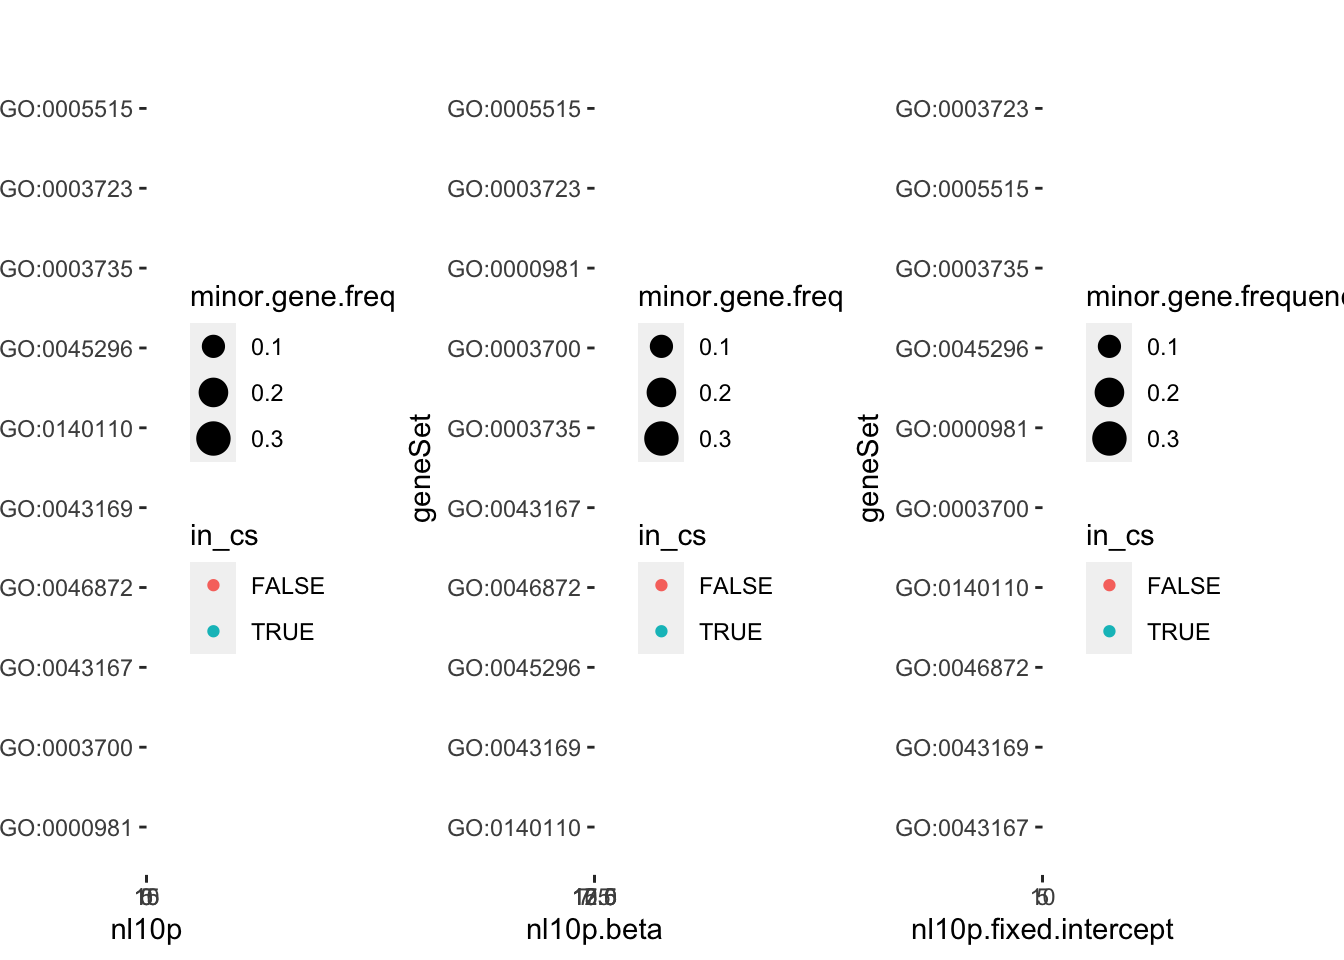
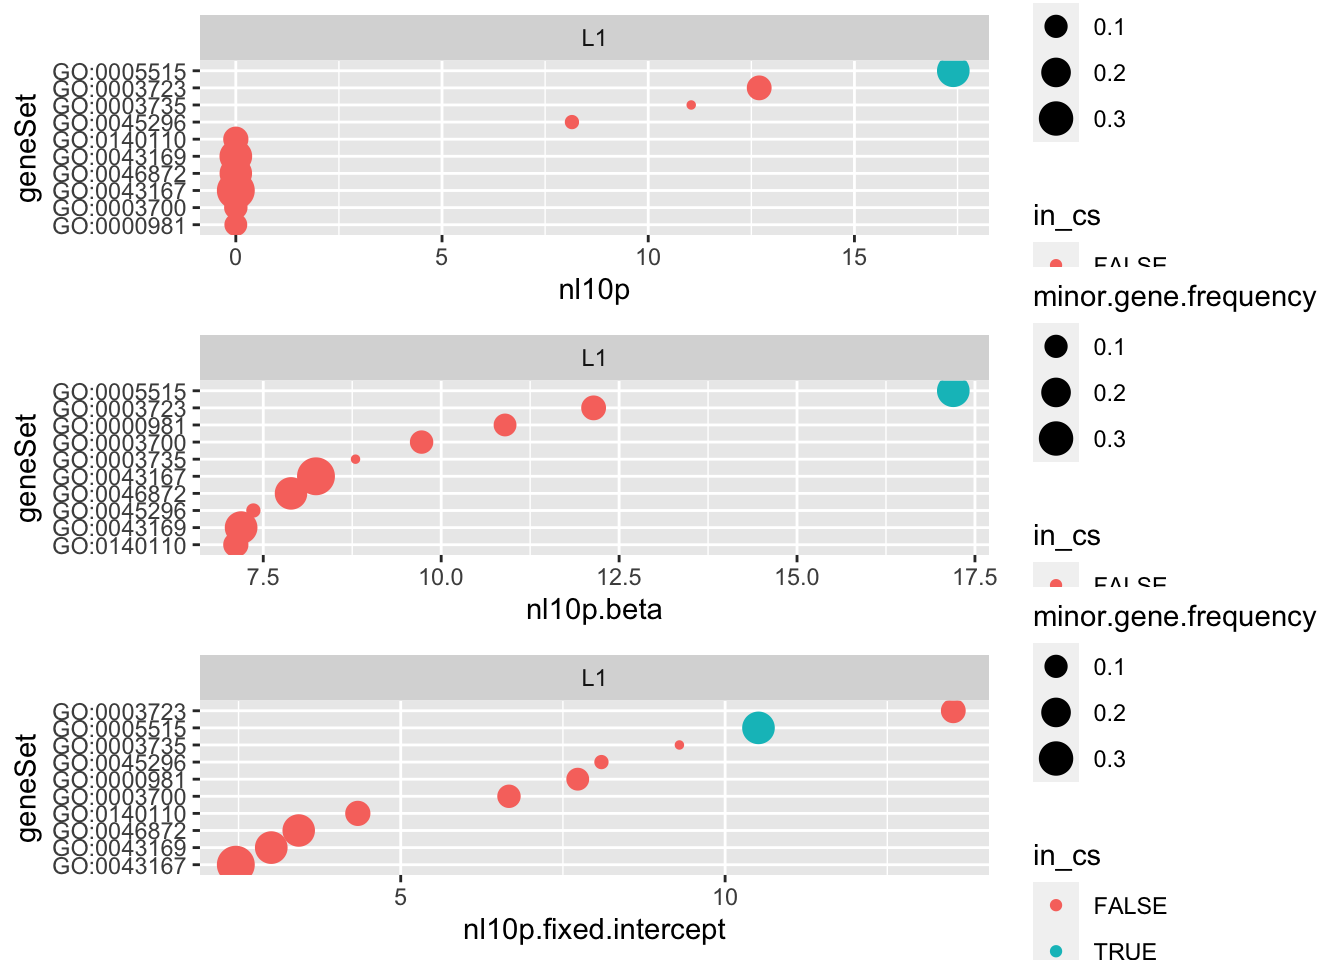
Build site.

diff --git a/docs/single_cell_pbmc_l1.html b/docs/single_cell_pbmc_l1.html
@@ -492,16 +492,16 @@ This reproducible <a href="https://rmarkdown.rstudio.com">R Markdown</a> analysi
 <div class="panel panel-default">
 <div class="panel-heading">
 <p class="panel-title">
-<a data-toggle="collapse" data-parent="#workflowr-checks" href="#strongRepositoryversionstrongahrefhttpsgithubcomkarltayeblogisticsusiegseatreeed39993efbe2d05c75a62c15d3fb0cf21fa0e7fctargetblanked39993a"> <span class="glyphicon glyphicon-ok text-success" aria-hidden="true"></span> <strong>Repository version:</strong> <a href="https://github.com/karltayeb/logistic-susie-gsea/tree/ed39993efbe2d05c75a62c15d3fb0cf21fa0e7fc" target="_blank">ed39993</a> </a>
+<a data-toggle="collapse" data-parent="#workflowr-checks" href="#strongRepositoryversionstrongahrefhttpsgithubcomkarltayeblogisticsusiegseatreeb7dbf115a0e25f5001c75285ee6765b8abb934edtargetblankb7dbf11a"> <span class="glyphicon glyphicon-ok text-success" aria-hidden="true"></span> <strong>Repository version:</strong> <a href="https://github.com/karltayeb/logistic-susie-gsea/tree/b7dbf115a0e25f5001c75285ee6765b8abb934ed" target="_blank">b7dbf11</a> </a>
 </p>
 </div>
[2 lines of base64/hex data omitted]
 <div class="panel-body">
 <p>
 Great! You are using Git for version control. Tracking code development and connecting the code version to the results is critical for reproducibility.
 </p>
 <p>
-The results in this page were generated with repository version <a href="https://github.com/karltayeb/logistic-susie-gsea/tree/ed39993efbe2d05c75a62c15d3fb0cf21fa0e7fc" target="_blank">ed39993</a>. See the <em>Past versions</em> tab to see a history of the changes made to the R Markdown and HTML files.
+The results in this page were generated with repository version <a href="https://github.com/karltayeb/logistic-susie-gsea/tree/b7dbf115a0e25f5001c75285ee6765b8abb934ed" target="_blank">b7dbf11</a>. See the <em>Past versions</em> tab to see a history of the changes made to the R Markdown and HTML files.
 </p>
 <p>
 Note that you need to be careful to ensure that all relevant files for the analysis have been committed to Git prior to generating the results (you can use <code>wflow_publish</code> or <code>wflow_git_commit</code>). workflowr only checks the R Markdown file, but you know if there are other scripts or data files that it depends on. Below is the status of the Git repository when the results were generated:
@@ -616,6 +616,40 @@ Message
 </tr>
 </thead>
 <tbody>
+<tr>
+<td>
+Rmd
+</td>
+<td>
+<a href="https://github.com/karltayeb/logistic-susie-gsea/blob/b7dbf115a0e25f5001c75285ee6765b8abb934ed/analysis/single_cell_pbmc_l1.Rmd" target="_blank">b7dbf11</a>
+</td>
+<td>
+karltayeb
+</td>
+<td>
+2022-04-08
+</td>
+<td>
+wflow_publish(“analysis/single_cell_pbmc_l1.Rmd”)
+</td>
+</tr>
+<tr>
+<td>
+html
+</td>
+<td>
+<a href="https://rawcdn.githack.com/karltayeb/logistic-susie-gsea/7c1b832b9be754de7e31fb79e4595051872473fc/docs/single_cell_pbmc_l1.html" target="_blank">7c1b832</a>
+</td>
+<td>
+karltayeb
+</td>
+<td>
+2022-04-08
+</td>
+<td>
+Build site.
+</td>
+</tr>
 <tr>
 <td>
 Rmd
@@ -1510,7 +1544,7 @@ karltayeb
 p2 &lt;-do.or.plot(res.l1, x=&#39;nl10p.beta&#39;, s=&#39;minor.gene.frequency&#39;)
 p3 &lt;-do.or.plot(res.l1, x=&#39;nl10p.fixed.intercept&#39;, s=&#39;minor.gene.frequency&#39;)
 
-cowplot::plot_grid(p1, p2, p3)</code></pre>
+cowplot::plot_grid(p1, p2, p3, ncol=1)</code></pre>
 <p><img src="figure/single_cell_pbmc_l1.Rmd/ser.plots-1.png" width="672" style="display: block; margin: auto;" /></p>
 <p>
 <button type="button" class="btn btn-default btn-xs btn-workflowr btn-workflowr-fig" data-toggle="collapse" data-target="#fig-ser.plots-1">
@@ -1534,6 +1568,17 @@ Date
 </tr>
 </thead>
 <tbody>
+<tr>
+<td>
+<a href="https://github.com/karltayeb/logistic-susie-gsea/blob/7c1b832b9be754de7e31fb79e4595051872473fc/docs/figure/single_cell_pbmc_l1.Rmd/ser.plots-1.png" target="_blank">7c1b832</a>
+</td>
+<td>
+karltayeb
+</td>
+<td>
+2022-04-08
+</td>
+</tr>
 <tr>
 <td>
 <a href="https://github.com/karltayeb/logistic-susie-gsea/blob/63c1e2aec8aa7433321a7114860b701dd7b3694c/docs/figure/single_cell_pbmc_l1.Rmd/ser.plots-1.png" target="_blank">63c1e2a</a>
@@ -1568,7 +1613,7 @@ karltayeb
 p2 &lt;-do.or.plot(res.l1.flat, x=&#39;nl10p.beta&#39;, s=&#39;minor.gene.frequency&#39;)
 p3 &lt;-do.or.plot(res.l1.flat, x=&#39;nl10p.fixed.intercept&#39;, s=&#39;minor.gene.frequency&#39;)
 
-cowplot::plot_grid(p1, p2, p3, nrow = 1)</code></pre>
+cowplot::plot_grid(p1, p2, p3, ncol=1)</code></pre>
 <p><img src="figure/single_cell_pbmc_l1.Rmd/ser.flat.plots-1.png" width="672" style="display: block; margin: auto;" /></p>
 <p>
 <button type="button" class="btn btn-default btn-xs btn-workflowr btn-workflowr-fig" data-toggle="collapse" data-target="#fig-ser.flat.plots-1">
@@ -1672,7 +1717,7 @@ karltayeb
 p2 &lt;-do.or.plot(res.l1.veb, x=&#39;nl10p.beta&#39;, s=&#39;minor.gene.frequency&#39;)
 p3 &lt;-do.or.plot(res.l1.veb, x=&#39;nl10p.fixed.intercept&#39;, s=&#39;minor.gene.frequency&#39;)
 
-cowplot::plot_grid(p1, p2, p3, nrow = 1)</code></pre>
+cowplot::plot_grid(p1, p2, p3, ncol=1)</code></pre>
 <p><img src="figure/single_cell_pbmc_l1.Rmd/veb.1.plots-1.png" width="672" style="display: block; margin: auto;" /></p>
 <p>
 <button type="button" class="btn btn-default btn-xs btn-workflowr btn-workflowr-fig" data-toggle="collapse" data-target="#fig-veb.1.plots-1">
@@ -1718,7 +1763,7 @@ karltayeb
 p2 &lt;-do.or.plot(res.l10.veb, x=&#39;nl10p.beta&#39;, s=&#39;minor.gene.frequency&#39;)
 p3 &lt;-do.or.plot(res.l10.veb, x=&#39;nl10p.fixed.intercept&#39;, s=&#39;minor.gene.frequency&#39;)
 
-cowplot::plot_grid(p1, p2, p3, ncol = 1)</code></pre>
+cowplot::plot_grid(p1, p2, p3, ncol=1)</code></pre>
 <p><img src="figure/single_cell_pbmc_l1.Rmd/sveb.10.plots-1.png" width="672" style="display: block; margin: auto;" /></p>
 <p>
 <button type="button" class="btn btn-default btn-xs btn-workflowr btn-workflowr-fig" data-toggle="collapse" data-target="#fig-sveb.10.plots-1">
